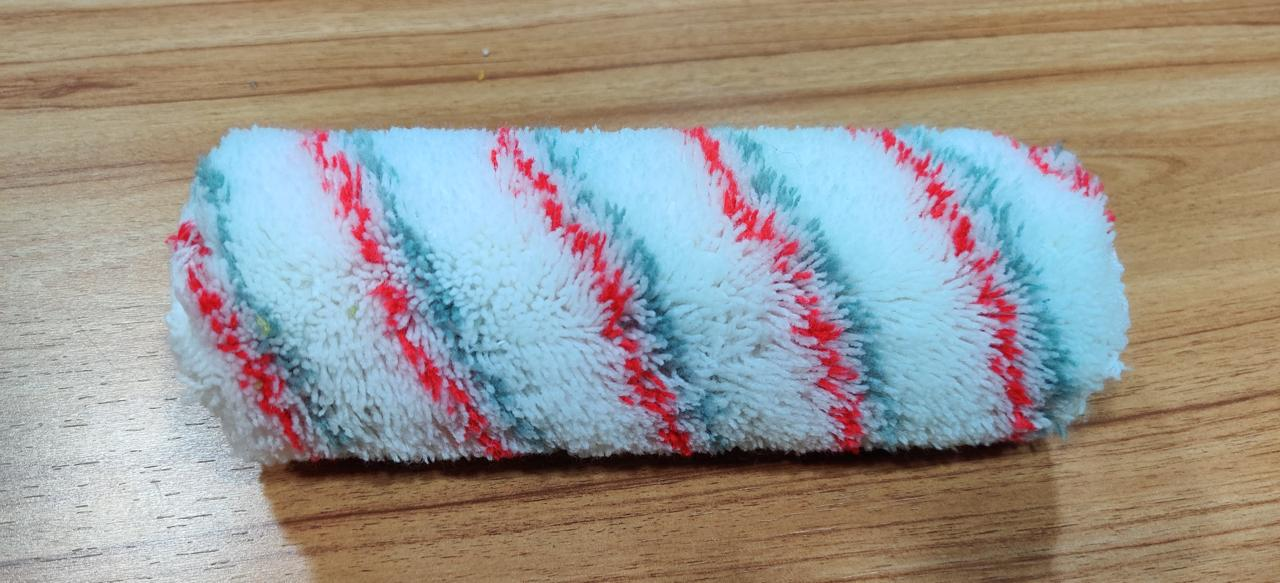
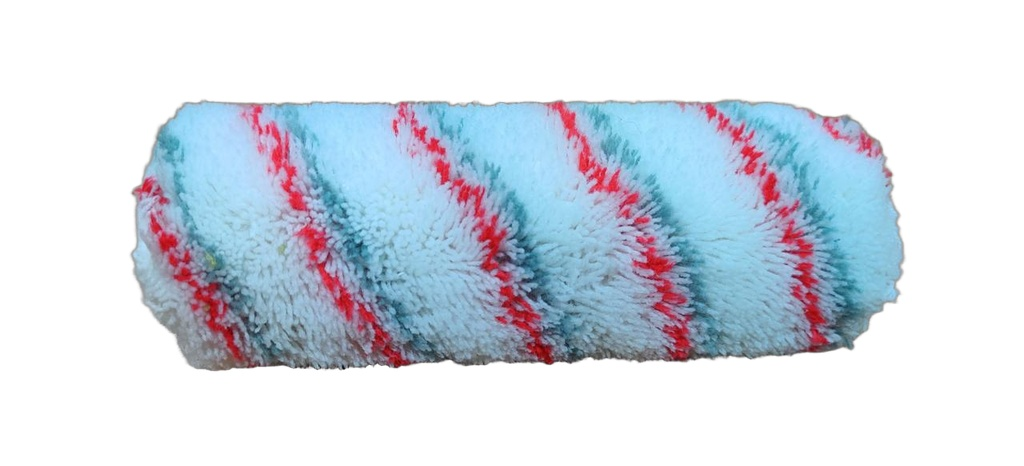
feat: update trio product image, add second phone number, update CEO info, and whiten product backgrounds

diff --git a/website/src/data/products.ts b/website/src/data/products.ts
@@ -31,8 +31,11 @@ export const COMPANY_DETAILS = {
   commitmentStatement: "Delivering the Right Quality to the Right Customer.",
   establishedYear: 2021,
   director: "Mr. Bipin Mishra",
+  ceos: "Mr. Bipin Mishra & Namita Mahadik",
   phone: "8451845284",
   formattedPhone: "+91 84518 45284",
+  phone2: "8459944934",
+  formattedPhone2: "+91 84599 44934",
   email: "bipin.mshr@gmail.com",
   address: {
     line1: "Gala No. 7 & 8, Goodwill Industry",
@@ -248,10 +251,10 @@ export const PRODUCTS: Product[] = [
     name: "Contractor Multi-Size Roller Refill Set (2\", 4\", 9\")",
     category: "roller-refills",
     categoryName: "Roller Refill Sleeves",
-    shortDesc: "Comprehensive size range of red-striped contractor sleeves covering broad walls, trim, and tight architectural corners.",
-    description: "Shyam Colour's wide spectrum of professional painting tools spans from 2 inches to 10 inches. This multi-size contractor assortment demonstrates our versatile manufacturing capability, delivering matching fabric density across large 9-inch wall rollers, 4-inch trim rollers, and 2-inch mini touch-up rollers.",
+    shortDesc: "Comprehensive size range of yellow-striped contractor sleeves covering broad walls, trim, and tight architectural corners.",
+    description: "Shyam Colour's wide spectrum of professional painting tools spans from 2 inches to 10 inches. This signature yellow-stripe contractor assortment demonstrates our versatile manufacturing capability, delivering matching fabric density across large 9-inch wall rollers, 4-inch trim rollers, and 2-inch mini touch-up rollers.",
     sizes: ["2 Inch (50 mm)", "4 Inch (100 mm)", "9 Inch (225 mm)"],
-    materials: ["High-durability acrylic pile with red spiral tracers", "Reinforced inner sleeves"],
+    materials: ["High-durability acrylic pile with signature yellow spiral tracers", "Reinforced inner sleeves"],
     applications: [
       "Trim, doors, cabinetry and radiator edges (2\" & 4\")",
       "Expansive wall and ceiling spans (9\")",
@@ -265,10 +268,10 @@ export const PRODUCTS: Product[] = [
       "Ideal bundle for paint brand private-label programs"
     ],
     image: "/images/roller-refill-trio-sizes.jpg",
-    additionalImages: ["/images/roller-refill-redstripe-pair.jpg", "/images/roller-refill-rainbow-stripe.jpg"],
+    additionalImages: ["/images/roller-refill-yellow-stripe.jpg", "/images/roller-refill-white-plush.jpg"],
     specifications: {
       "Sizes Included": "2-inch, 4-inch, and 9-inch variants",
-      "Pattern": "Red spiral stripe contractor design",
+      "Pattern": "Signature yellow spiral stripe contractor design",
       "Core Construction": "Solvent-tolerant rigid core",
       "Manufacturing Range": "Available up to 10-inch custom variants",
       "Packaging": "Available in bulk carton packs or customized kits"
@@ -463,6 +466,117 @@ export const PRODUCTS: Product[] = [
       "Color Variants": "Green plush / Blue plush variants",
       "Recommended Coatings": "Elastomeric, cementitious paints, thick texture coats",
       "Manufacturing Minimums": "Contact for bulk and OEM run volumes"
+    }
+  },
+  {
+    id: "p13",
+    slug: "scr-commercial-red-handle-roller-pack",
+    name: "SCR Commercial Red-Grip Complete Roller Set (Packaged)",
+    category: "paint-rollers",
+    categoryName: "Complete Paint Rollers",
+    shortDesc: "Single-wire steel roller frame with high-grip red handle and sealed SCR green fabric refill sleeve.",
+    description: "Professional packaged roller set manufactured by Shyam Colour. Features a balanced single-wire frame with zinc electroplating, an ergonomic red molded polymer handle, and a sealed SCR-branded green nap refill engineered for smooth emulsion flow and maximum durability.",
+    sizes: ["9 Inch (225 mm)", "10 Inch (250 mm)"],
+    materials: [
+      "Galvanized high-tensile wire",
+      "Ergonomic polymer handle",
+      "High-density green fabric refill",
+      "Protective retail packaging"
+    ],
+    applications: [
+      "Interior wall & ceiling emulsions",
+      "Exterior smooth masonry",
+      "Commercial and residential painting",
+      "Contractor & retail distribution"
+    ],
+    features: [
+      "Sealed tamper-evident SCR retail pouch",
+      "Heavy-gauge electroplated frame prevents wobbling",
+      "Uniform paint distribution with zero fiber loss",
+      "Ergonomic anti-slip grip with extension pole socket"
+    ],
+    image: "/images/roller-pack-red-green.jpg",
+    additionalImages: ["/images/roller-handle-red-long.jpg", "/images/roller-assembly-textured.jpg"],
+    specifications: {
+      "Frame Diameter": "6 mm zinc-plated steel",
+      "Refill Length": "9 Inch (225 mm)",
+      "Nap Type": "High-density green synthetic plush",
+      "Handle Grip": "Molded red anti-slip handle with hanging hole",
+      "Packaging": "Branded SCR sealed retail pouch"
+    }
+  },
+  {
+    id: "p14",
+    slug: "scr-pro-finish-blue-handle-roller-pack",
+    name: "SCR Pro-Finish Blue-Grip Complete Roller Set (Packaged)",
+    category: "paint-rollers",
+    categoryName: "Complete Paint Rollers",
+    shortDesc: "Heavy-gauge offset wire roller frame with ergonomic royal blue grip and sealed SCR yellow-stripe refill sleeve.",
+    description: "Engineered for superior wall finish and contractor comfort. This packaged set combines our precision offset wire frame with an anti-fatigue royal blue ergonomic handle and a sealed SCR yellow-stripe woven refill sleeve that guarantees smooth, lint-free paint application.",
+    sizes: ["9 Inch (225 mm)"],
+    materials: [
+      "Heavy-gauge zinc-plated steel rod",
+      "Molded ergonomic blue handle",
+      "Woven yellow-stripe synthetic fabric refill",
+      "Sealed SCR retail sleeve"
+    ],
+    applications: [
+      "High-end interior wall finishes",
+      "Latex, acrylic, and water-based emulsions",
+      "Architectural coating and drywall",
+      "Retail hardware & paint store display"
+    ],
+    features: [
+      "Factory sealed in authentic SCR blue-and-white retail pouch",
+      "Ergonomic ribbed blue grip reduces painter fatigue",
+      "Signature yellow-stripe sleeve ensures streak-free coverage",
+      "Fits standard threaded extension poles"
+    ],
+    image: "/images/roller-pack-blue-white.jpg",
+    additionalImages: ["/images/roller-refill-yellow-stripe.jpg", "/images/roller-assembly-white-poly.jpg"],
+    specifications: {
+      "Frame Construction": "Precision-offset galvanized steel wire",
+      "Refill Length": "9 Inch (225 mm)",
+      "Nap Pattern": "Woven microfiber with helical yellow stripes",
+      "Handle Color": "Royal Blue industrial polymer",
+      "Packaging": "Sealed SCR retail pouch with display hang-hole"
+    }
+  },
+  {
+    id: "p15",
+    slug: "scr-mini-roller-kit-3-refills",
+    name: "SCR 4-Inch Multi-Refill Mini Roller Kit (3 Refills + Frame)",
+    category: "paint-rollers",
+    categoryName: "Complete Paint Rollers",
+    shortDesc: "Compact 4-inch painting kit featuring 3 premium white microfiber refill sleeves and a balanced yellow-grip wire frame in a sealed pack.",
+    description: "Versatile contractor-grade mini roller kit manufactured at Shyam Colour's Vasai East facility. Includes three 4-inch (100 mm) ultra-smooth white microfiber refills and a durable single-wire handle with an ergonomic yellow grip. Perfect for trim, corners, doors, cabinets, and narrow spaces.",
+    sizes: ["4 Inch (100 mm)"],
+    materials: [
+      "High-density lint-free white microfiber",
+      "Galvanized steel rod",
+      "Molded yellow handle",
+      "Transparent heavy-duty SCR pack"
+    ],
+    applications: [
+      "Door frames, cabinets, and architectural trim",
+      "Narrow wall strips, radiators, and behind pipes",
+      "Gloss, semi-gloss, and satin finishes",
+      "Quick touch-ups and DIY painting"
+    ],
+    features: [
+      "All-in-one kit: 3 replacement sleeves plus 1 frame",
+      "Ultra-dense microfiber nap delivers mirror-smooth finish",
+      "Lightweight, agile frame for tight access spaces",
+      "Sealed retail packaging with clear product view"
+    ],
+    image: "/images/roller-kit-3refill-yellow.jpg",
+    additionalImages: ["/images/roller-single-wire-yellow.jpg", "/images/roller-refill-trio-sizes.jpg"],
+    specifications: {
+      "Roller Width": "4 Inch (100 mm)",
+      "Package Contents": "1x Wire Frame with Yellow Handle + 3x White Refill Sleeves",
+      "Nap Type": "Lint-free short-pile microfiber",
+      "Wire Thickness": "5.5 mm corrosion-resistant wire",
+      "Packaging": "Heavy-gauge clear retail pouch with red SCR header"
     }
   }
 ];

diff --git a/website/src/app/contact/page.tsx b/website/src/app/contact/page.tsx
@@ -84,16 +84,25 @@ export default function ContactPage() {
                     </div>
                     <div>
                       <h4 className="text-xs font-bold uppercase tracking-wider text-slate-500">
-                        Direct Phone Line
+                        Direct Phone Lines
                       </h4>
-                      <a
-                        href={`tel:${COMPANY_DETAILS.phone}`}
-                        className="text-base font-bold text-slate-900 hover:text-amber-600 transition-colors block mt-1"
-                      >
-                        +91 {COMPANY_DETAILS.phone}
-                      </a>
+                      <div className="flex flex-col sm:flex-row sm:items-center gap-1 sm:gap-3 mt-1">
+                        <a
+                          href={`tel:${COMPANY_DETAILS.phone}`}
+                          className="text-base font-bold text-slate-900 hover:text-amber-600 transition-colors"
+                        >
+                          +91 {COMPANY_DETAILS.phone}
+                        </a>
+                        <span className="hidden sm:inline text-slate-300">/</span>
+                        <a
+                          href={`tel:${COMPANY_DETAILS.phone2}`}
+                          className="text-base font-bold text-slate-900 hover:text-amber-600 transition-colors"
+                        >
+                          +91 {COMPANY_DETAILS.phone2}
+                        </a>
+                      </div>
                       <p className="text-xs text-slate-500 mt-0.5">
-                        Direct call for quotes and order dispatches
+                        Direct calls for quotes and order dispatches
                       </p>
                     </div>
                   </div>
@@ -131,7 +140,7 @@ export default function ContactPage() {
                         Factory Management
                       </h4>
                       <p className="text-sm font-bold text-slate-900 mt-1">
-                        Director: {COMPANY_DETAILS.director}
+                        CEO: Mr. Bipin Mishra and Namita Mahadik
                       </p>
                       <p className="text-xs text-slate-500 mt-0.5">
                         Personal attention to corporate and contract accounts

diff --git a/website/src/components/Header.tsx b/website/src/components/Header.tsx
@@ -58,16 +58,25 @@ export default function Header() {
           </div>
 
           <div className="flex items-center gap-4 sm:gap-6 ml-auto">
-            <a
-              href={`tel:${COMPANY_DETAILS.phone}`}
-              className="hover:text-amber-400 transition-colors flex items-center gap-1"
-            >
+            <div className="flex items-center gap-1.5 sm:gap-2">
               <Phone className="w-3 h-3 text-amber-500" />
-              <span>{COMPANY_DETAILS.formattedPhone}</span>
-            </a>
+              <a
+                href={`tel:${COMPANY_DETAILS.phone}`}
+                className="hover:text-amber-400 transition-colors"
+              >
+                {COMPANY_DETAILS.formattedPhone}
+              </a>
+              <span className="text-slate-500 hidden sm:inline">|</span>
+              <a
+                href={`tel:${COMPANY_DETAILS.phone2}`}
+                className="hover:text-amber-400 transition-colors hidden sm:inline"
+              >
+                {COMPANY_DETAILS.formattedPhone2}
+              </a>
+            </div>
             <a
               href={`mailto:${COMPANY_DETAILS.email}`}
-              className="hover:text-amber-400 transition-colors hidden sm:flex items-center gap-1"
+              className="hover:text-amber-400 transition-colors hidden md:flex items-center gap-1"
             >
               <Mail className="w-3 h-3 text-amber-500" />
               <span>{COMPANY_DETAILS.email}</span>
@@ -285,7 +294,7 @@ export default function Header() {
             <div className="text-xs text-slate-600 space-y-1.5 pt-2">
               <p className="flex items-center gap-2">
                 <Phone className="w-3.5 h-3.5 text-amber-600" />
-                <span>Call: {COMPANY_DETAILS.formattedPhone}</span>
+                <span>Call: {COMPANY_DETAILS.formattedPhone} / {COMPANY_DETAILS.formattedPhone2}</span>
               </p>
               <p className="flex items-center gap-2">
                 <Mail className="w-3.5 h-3.5 text-amber-600" />

diff --git a/website/src/components/Footer.tsx b/website/src/components/Footer.tsx
@@ -185,6 +185,14 @@ export default function Footer() {
               </a>
 
               <a
+                href={`tel:${COMPANY_DETAILS.phone2}`}
+                className="flex items-center gap-2 text-slate-300 hover:text-amber-400 transition-colors"
+              >
+                <Phone className="w-4 h-4 text-amber-500 flex-shrink-0" />
+                <span>+91 {COMPANY_DETAILS.phone2}</span>
+              </a>
+
+              <a
                 href={`mailto:${COMPANY_DETAILS.email}`}
                 className="flex items-center gap-2 text-slate-300 hover:text-amber-400 transition-colors"
               >
